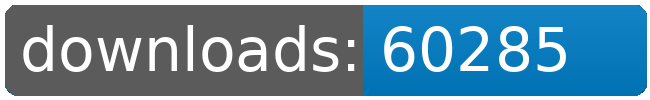
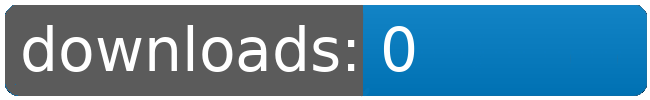
dl log written

Changed region(s): [[0.5846, 0.24, 0.8923, 0.72]]

diff --git a/README.md b/README.md
@@ -14,105 +14,6 @@
 		<td>today +</td>
 	</tr>
 	<tr>
-		<td>Bunsen.Burner</td>
-		<td>7998</td>
-		<td>8015</td>
-		<td>8033</td>
-		<td>8052</td>
-		<td>8079</td>
-		<td>8107</td>
-		<td>8120</td>
-		<td>+ 13</td>
-	</tr>
-	<tr>
-		<td>Factory.Outlets</td>
-		<td>7092</td>
-		<td>7108</td>
-		<td>7126</td>
-		<td>7145</td>
-		<td>7173</td>
-		<td>7199</td>
-		<td>7211</td>
-		<td>+ 12</td>
-	</tr>
-	<tr>
-		<td>Fundamental.Outfit.Expansion</td>
-		<td>8418</td>
-		<td>8435</td>
-		<td>8454</td>
-		<td>8475</td>
-		<td>8505</td>
-		<td>8532</td>
-		<td>8544</td>
-		<td>+ 12</td>
-	</tr>
-	<tr>
-		<td>Jaws</td>
-		<td>6913</td>
-		<td>6929</td>
-		<td>6947</td>
-		<td>6966</td>
-		<td>6993</td>
-		<td>7019</td>
-		<td>7031</td>
-		<td>+ 12</td>
-	</tr>
-	<tr>
-		<td>Korunak.Defense.Drones</td>
-		<td>7141</td>
-		<td>7157</td>
-		<td>7177</td>
-		<td>7195</td>
-		<td>7222</td>
-		<td>7248</td>
-		<td>7261</td>
-		<td>+ 13</td>
-	</tr>
-	<tr>
-		<td>Louise.Conglomerate.Shipyards</td>
-		<td>7792</td>
-		<td>7809</td>
-		<td>7826</td>
-		<td>7845</td>
-		<td>7874</td>
-		<td>7900</td>
-		<td>7912</td>
-		<td>+ 12</td>
-	</tr>
-	<tr>
-		<td>Sheragi.Rebirth.Redux</td>
-		<td>71</td>
-		<td>71</td>
-		<td>71</td>
-		<td>71</td>
-		<td>71</td>
-		<td>71</td>
-		<td>72</td>
-		<td>+ 1</td>
-	</tr>
-	<tr>
-		<td>Solar.Sails</td>
-		<td>7039</td>
-		<td>7055</td>
-		<td>7072</td>
-		<td>7092</td>
-		<td>7119</td>
-		<td>7145</td>
-		<td>7157</td>
-		<td>+ 12</td>
-	</tr>
-	<tr>
-		<td>Zone.of.Control</td>
-		<td>6859</td>
-		<td>6875</td>
-		<td>6892</td>
-		<td>6911</td>
-		<td>6939</td>
-		<td>6965</td>
-		<td>6977</td>
-		<td>+ 12</td>
-	</tr>
-	<tr>
 		<td></td>
 		<td></td>
 		<td></td>
@@ -120,8 +21,8 @@
 		<td></td>
 		<td></td>
 		<td></td>
-		<td>60285</td>
-		<td>99</td>
+		<td>0</td>
+		<td>0</td>
 	</tr>
 </table>
 </sub></sup>
@@ -139,105 +40,6 @@
 		<td>today +</td>
 	</tr>
 	<tr>
-		<td>Fundamental.Outfit.Expansion</td>
-		<td>8418</td>
-		<td>8435</td>
-		<td>8454</td>
-		<td>8475</td>
-		<td>8505</td>
-		<td>8532</td>
-		<td>8544</td>
-		<td>+ 12</td>
-	</tr>
-	<tr>
-		<td>Bunsen.Burner</td>
-		<td>7998</td>
-		<td>8015</td>
-		<td>8033</td>
-		<td>8052</td>
-		<td>8079</td>
-		<td>8107</td>
-		<td>8120</td>
-		<td>+ 13</td>
-	</tr>
-	<tr>
-		<td>Louise.Conglomerate.Shipyards</td>
-		<td>7792</td>
-		<td>7809</td>
-		<td>7826</td>
-		<td>7845</td>
-		<td>7874</td>
-		<td>7900</td>
-		<td>7912</td>
-		<td>+ 12</td>
-	</tr>
-	<tr>
-		<td>Korunak.Defense.Drones</td>
-		<td>7141</td>
-		<td>7157</td>
-		<td>7177</td>
-		<td>7195</td>
-		<td>7222</td>
-		<td>7248</td>
-		<td>7261</td>
-		<td>+ 13</td>
-	</tr>
-	<tr>
-		<td>Factory.Outlets</td>
-		<td>7092</td>
-		<td>7108</td>
-		<td>7126</td>
-		<td>7145</td>
-		<td>7173</td>
-		<td>7199</td>
-		<td>7211</td>
-		<td>+ 12</td>
-	</tr>
-	<tr>
-		<td>Solar.Sails</td>
-		<td>7039</td>
-		<td>7055</td>
-		<td>7072</td>
-		<td>7092</td>
-		<td>7119</td>
-		<td>7145</td>
-		<td>7157</td>
-		<td>+ 12</td>
-	</tr>
-	<tr>
-		<td>Jaws</td>
-		<td>6913</td>
-		<td>6929</td>
-		<td>6947</td>
-		<td>6966</td>
-		<td>6993</td>
-		<td>7019</td>
-		<td>7031</td>
-		<td>+ 12</td>
-	</tr>
-	<tr>
-		<td>Zone.of.Control</td>
-		<td>6859</td>
-		<td>6875</td>
-		<td>6892</td>
-		<td>6911</td>
-		<td>6939</td>
-		<td>6965</td>
-		<td>6977</td>
-		<td>+ 12</td>
-	</tr>
-	<tr>
-		<td>Sheragi.Rebirth.Redux</td>
-		<td>71</td>
-		<td>71</td>
-		<td>71</td>
-		<td>71</td>
-		<td>71</td>
-		<td>71</td>
-		<td>72</td>
-		<td>+ 1</td>
-	</tr>
-	<tr>
 		<td></td>
 		<td></td>
 		<td></td>
@@ -245,8 +47,8 @@
 		<td></td>
 		<td></td>
 		<td></td>
-		<td>60285</td>
-		<td>99</td>
+		<td>0</td>
+		<td>0</td>
 	</tr>
 </table>
 </sub></sup>
